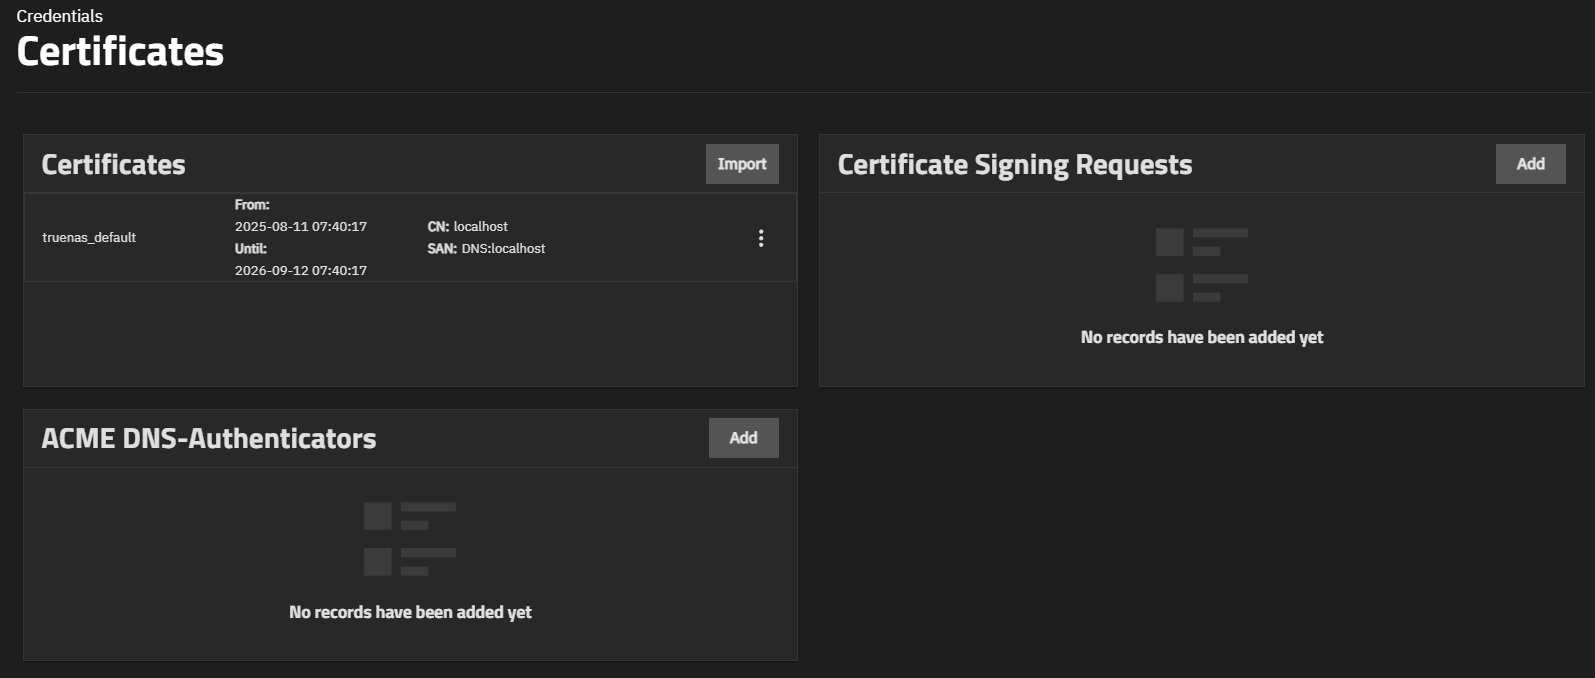
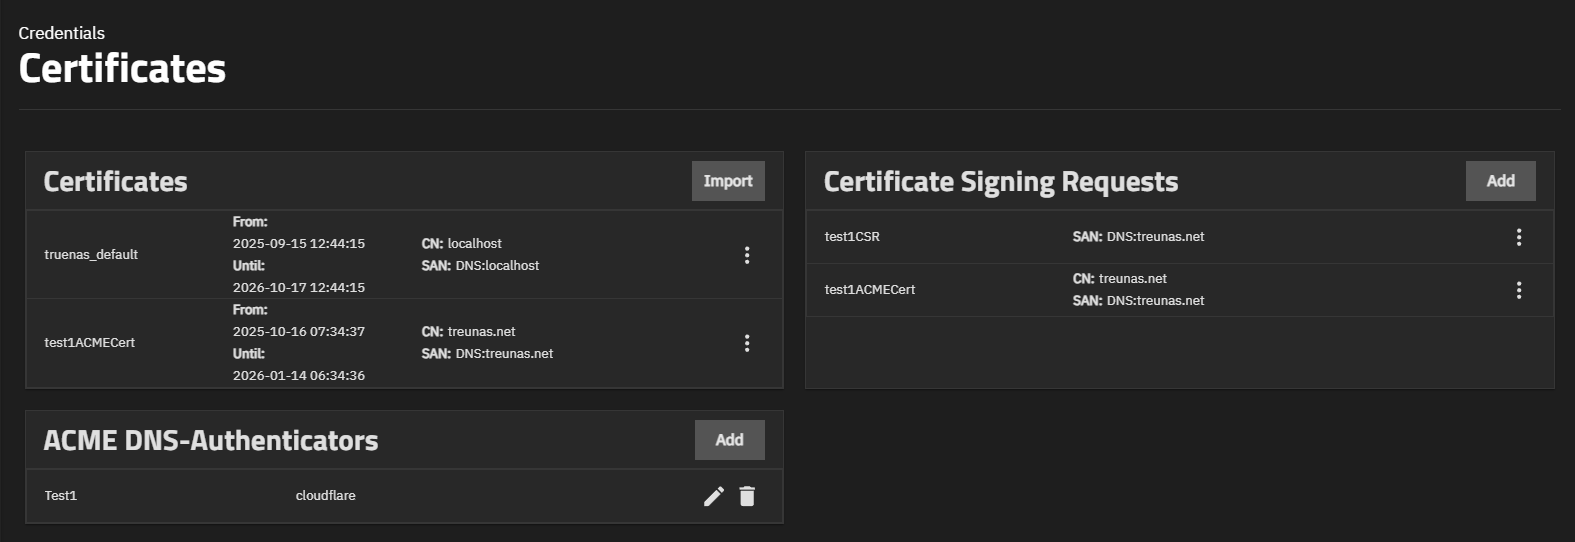
PD-2255 / 26.04 / Pd 2255 update acme certificate content (#4230)
* PD-2255 Update AddACMESCALE.md Content

This commit updates the instructions in the AddACMESCALE.md tutorial.

* PD-2255 UpdateAddCSRsSCALE.md

This commit updates the tutorial for adding a CSR and ACME Certificate.

* PD-2255 Update the CredentialsCertificatesScreen.png

This commit changes the image to show each widget populated (certificate, csr, and acme dns authenticator)

* Update AddCSRsSCALE.md

---------

(cherry picked from commit b5ed0c27f03bb16f33cea7afa2fcd34e498b7b82)

diff --git a/content/SCALETutorials/Credentials/Certificates/AddCSRsSCALE.md b/content/SCALETutorials/Credentials/Certificates/AddCSRsSCALE.md
@@ -17,45 +17,65 @@ The **Certificate Signing Requests** widget allows users to configure a message 
 ## Adding a CSR
 
 {{< hint type=info >}}
-An ACME certificate is created based on the settings in the selected CSR.
-
 If you plan to create an ACME certificate, before adding a CSR, make sure the certificate authority provider account (i.e., Cloudflare, DigitalOcean, etc.) is correctly configured with all domains entered in this CSR.
+
+When adding an ACME certificate for a CSR, it is created based on the settings in the selected CSR.
+
 For example, if using a Cloudflare DNS authenticator, in the Cloudflare account, register the domain(s) entered in the **Subject Alternative Name** field on the **Certificate Subject** screen in the **Add CSR** wizard.
-If the CSR and provider accounts are not properly configured, TrueNAS shows an error indicating the problem with the configuration.
-For information on how to add a DNS authenticator in TrueNAS, [click here]({{< relref "AddACMESCALE.md" >}}).
+
+If the CSR and provider accounts are not properly configured, a dialog with an error indicating the configuration problem opens.
+
+For information on how to add a DNS authenticator in TrueNAS, see [Adding ACME DNS Authenticators]({{< relref "AddACMESCALE.md" >}}).
 {{< /hint >}}
 
-You can only edit the name of the CSR after you click **Save**.
+You can only edit the name of the CSR after clicking **Save**.
+If you make a mistake or want to change any setting, delete the CSR and create a new one with the desired or correct settings.
 
 To add a CSR:
 
-First, enter a name and select the CSR type. The **Add CSR** allows a user to create a certificate signing request(CSR) or import a certificate for a CSR. Users can select a predefined certificate extension from the **Profiles** dropdown list.
+1. Enter a name and select the CSR type.
+   The **Add CSR** wizard allows creating a certificate signing request (CSR) or importing a certificate for a CSR.
+   Users can select a predefined certificate extension from the **Profiles** dropdown list.
 
-{{< trueimage src="/images/SCALE/Credentials/AddCSRIdentifierAndType.png" alt="Add CSR Certificate Options RSA Type" id="Add CSR Certificate Options RSA Type" >}}
+   {{< trueimage src="/images/SCALE/Credentials/AddCSRIdentifierAndType.png" alt="Add CSR Certificate Options RSA Type" id="Add CSR Certificate Options RSA Type" >}}
 
-Next, select or enter the certificate options for the CSR.
-Choose options that specify the type of private key to use, the number of bits in the key used by the cryptographic algorithm, and the cryptographic algorithm the CSR uses.
+   Click **Next**.
 
-When entering values for the **Certificate Subject** settings, enter short values for the geographic information, where possible.
-For example, enter TN instead of Tennessee for the State. Enter all required values (indicated by the asterisk).
-The **Common Name** can be the full domain assigned to the TrueNAS system, or just the example.net portion of the domain name. Include this in the **Subject Alternative Name** field. You can enter any other system [fully-qualified hostname (FQDN)](https://kb.iu.edu/d/aiuv) and domains for multi-domain support.
+2. Select or enter the certificate options for the CSR. TrueNAS shows default settings in each field.
+   **Key Type** shows the option matching the selection made in **Profiles** in step 1.
+   Accept the default values or choose the number of bits in the key used by the cryptographic algorithm, and the cryptographic algorithm the CSR uses.
 
-{{< trueimage src="/images/SCALE/Credentials/AddCSRCertificateSubject.png" alt="Add CSR Certificate Subject Screen" id="Add CSR Certificate Subject Screen" >}}
+   Click **Next**.
 
-(Optional) Enter any extra constraints you need for your scenario. The **Extra Constraints** step contains certificate extension options.
+3. Enter the  **Certificate Subject** settings. When entering values, enter short values for the geographic information, where possible.
+   For example, enter TN instead of Tennessee for the **State**. Enter all required values (indicated by the asterisk).
 
-* **Basic Constraints** limits the path length for a certificate chain.
-* **Authority Key Identifier** identifies the public key corresponding to the private key used to sign a certificate.
-* **Key Usage** defines the purpose of the public key contained in a certificate.
-* **Extended Key Usage** further refines key usage extensions.
+   If specifying a value in **Common Name**, it can be the full domain assigned to the TrueNAS system or just the *example.net* portion of the domain name.
+   Include this in the **Subject Alternative Name** field.
+   You can enter any other system [fully-qualified hostname (FQDN)](https://kb.iu.edu/d/aiuv) and domains for multi-domain support.
 
-Review the certificate options. If you want to change something, click **Back** to reach the screen with the setting option you want to change, then click **Next** to advance to the **Confirm Options** step.
+   When specifying an IP address in **Subject Alternative Name** do not enter the IP address of the system.
+   This results in an error if you try to create an ACME certificate for the CSR.
 
-Click **Save** to add the CSR.
+   {{< trueimage src="/images/SCALE/Credentials/AddCSRCertificateSubject.png" alt="Add CSR Certificate Subject Screen" id="Add CSR Certificate Subject Screen" >}}
+
+   Click **Next**.
+
+4. (Optional) Enter any extra constraints if needed for your scenario. The **Extra Constraints** step contains certificate extension options.
+   
+   * **Basic Constraints** limits the path length for a certificate chain.
+   * **Authority Key Identifier** identifies the public key corresponding to the private key used to sign a certificate.
+   * **Key Usage** defines the purpose of the public key contained in a certificate.
+   * **Extended Key Usage** further refines key usage extensions.
+
+5. Review the certificate options.
+   Click **Back** until reaching the screen with the setting option you want to change, make the change, and then click **Next** to advance to the **Confirm Options** step.
+
+6. Click **Save** to add the CSR.
 
 ## Importing a CSR
 
-When importing a certificate into TrueNAS for the CSR, enter a name, then select **Import Certificate Signing Request** in **Type**. Click **Next**.
+When importing a certificate into TrueNAS for the CSR, enter a name, and then select **Import Certificate Signing Request** in **Type**. Click **Next**.
 
 {{< trueimage src="/images/SCALE/Credentials/AddCSRImportCSR.png" alt="Add CSR Import Certificate" id="Add CSR Import Certificate" >}}
 
@@ -64,7 +84,9 @@ Enter the password for the private key in **Password** and **Confirm Password**.
 
 ## Creating an ACME Certificate
 
-You can access the **Create ACME Certificate** from the <span class="material-icons">more_vert</span> dropdown list or the **Edit CSR** screen, to add a certificate by selecting an ACME DNS authenticator configured in TrueNAS.
+TrueNAS provides a way to add a certificate for an ACNE DNS authenticator added to the system.
+After adding the DNS authenticator, create a CSR for it.
+Click on the <span class="material-icons">more_vert</span> for the CSR on the **Certificate Signing Requests** widget, then click on **Create ACME Certificate** to open the **Create ACME Certificate** screen.
 
 {{< hint type=info >}}
 You must [configure a DNS authenticator]({{< relref "AddACMESCALE.md" >}}) to create an ACME certificate!
@@ -72,18 +94,21 @@ The ACME certificate is created based on the settings in the selected CSR.
 
 You must have the domains added to the account providing the DNS authenticator.
 For example, if using Cloudflare to create the DNS authenticator, the Cloudflare account must have the domain(s) entered in the **Subject Alternative Name** field in the **Add CSR** wizard on the **Certificate Subject** screen.
-If not properly configured, TrueNAS shows an error with the configuration problem.
+If not properly configured, a dialog with an error indicating the configuration problem opens.
 {{< /hint >}}
 
 {{< trueimage src="/images/SCALE/Credentials/CreateACMECertificateScreen.png" alt="Create ACME Certificate Screen" id="Create ACME Certificate Screen" >}}
 
-Enter a name in **Identifier**, then select **Terms of Service**.
+Enter a name in **Identifier**. The underscore (_) and dash (-) are allowed characters in the name.
 
-Enter a number that specifies the time (in days) before the certificate expires  in **Renew Certificate Days**.
+Select **Terms of Service**.
+
+Enter a number that specifies the time (in days) before the certificate expires in **Renew Certificate Days**.
 
 Select the URI of the ACME server directory from the **ACME Server Directory URI** dropdown list.
 
-The **Domains** area shows a domain for each entry made in the **Subject Alternative Name** field on the **Certificate Subject** screen of the **Add CSR** wizard.
+The **Domains** area shows domains for each entry made in the **Subject Alternative Name** field on the **Certificate Subject** screen of the **Add CSR** wizard.
 Select the option from the dropdown list for each domain shown. This sets the authenticator to validate the domain.
 
 Click **Save**.
+The new ACME certificate shows on the **Certificates** and the **Certificate Signing Requests** widgets.
